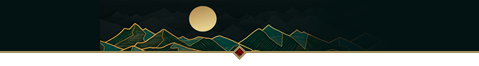
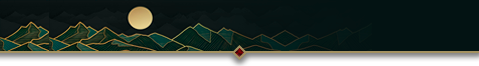
up

Changed region(s): [[0.0, 0.0909, 1.0, 1.0], [0.6722, 0.6061, 0.7015, 0.6667], [0.7015, 0.5758, 0.7307, 0.6061]]

diff --git a/pages/brewmaster/intro.html b/pages/brewmaster/intro.html
@@ -28,7 +28,7 @@
 <div id="header-mob">
 	<!-- <a href="../../index.html"><i class="fa fa-bars"></i> </a> -->
 	<!-- <div class="header-mob-buttons-l"> -->
-		<a href="../../index.html"><img class="header-mob-item-l" src="../../img/33.png" alt="logo-main-footer"> </a>
+		<a href="../../index.html"><img class="header-mob-item-l" src="../../img/logoDots.png" alt="logo-main-footer"> </a>
 	<!-- </div> -->
 	<div class="header-mob-buttons-r">
 		<a href="https://boosty.to/nims"><img class="header-mob-item-boosty" src="../../img/boosty-small.png" alt="boosty"> </a>

diff --git a/css/style.css b/css/style.css
@@ -415,7 +415,7 @@ a {
     background-size: 100%;
     /* border: #00FF99 solid 1px; */
     /* box-shadow: 0vw 0vw 4vw 2vw rgba(0,0,0,0.6); */
-    height: 12.5vw;
+    height: 13.5vw;
     padding: 0;
     margin: 0;
     width: auto;
